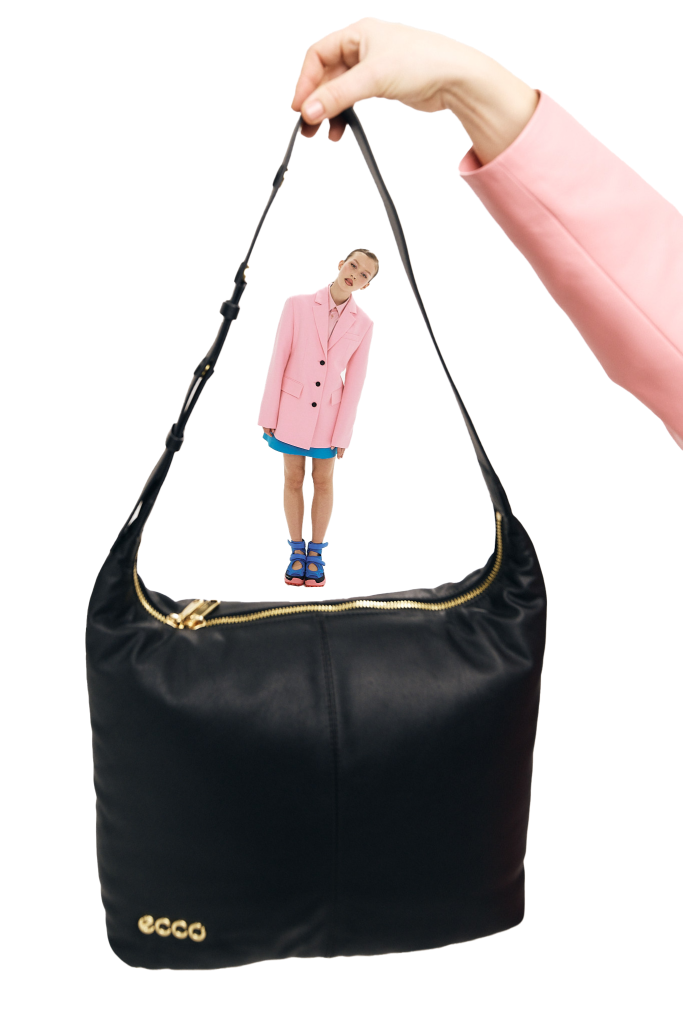
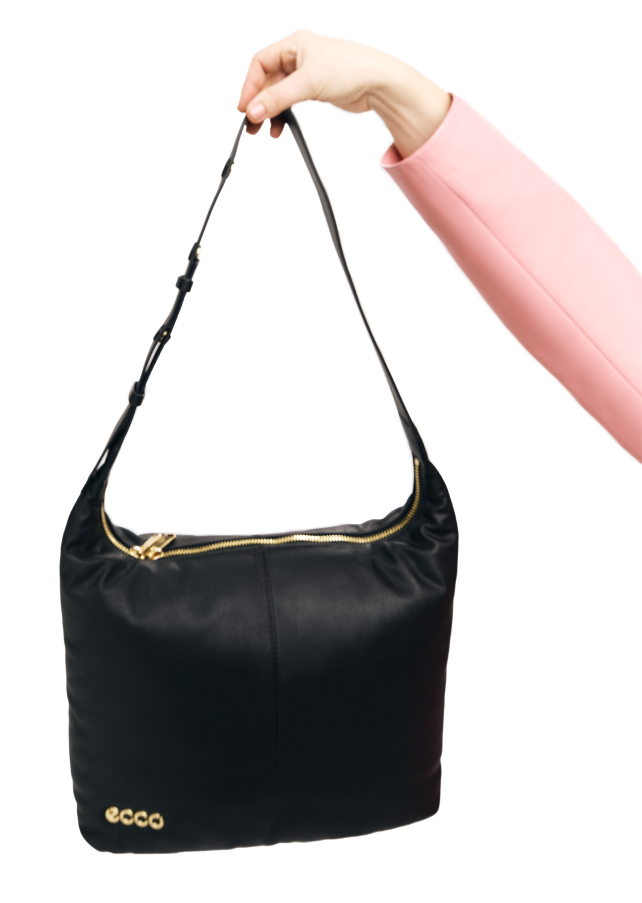
Add needed animation

diff --git a/src/components/unique/unique.scss b/src/components/unique/unique.scss
@@ -9,11 +9,11 @@
         }
 
         &__title-block {
-            margin-bottom: em(97, $basePxDp);
+            margin-bottom: em(44, $basePxDp);
             margin-left: em(123, $basePxDp);
 
             @media (--viewport-portrait-layout) {
-                margin-bottom: em(-15, $basePxMb);
+                margin-bottom: em(-9, $basePxMb);
                 margin-left: 0;
                 display: flex;
                 flex-direction: column;
@@ -112,14 +112,37 @@
                 position: relative;
             }
 
-            &--1 {
-                width: em(683, $basePxDp);
-                bottom: 0;
-                right: em(0, $basePxDp);
+            &.unique__img--1 {
+                --from-x: 100%;
+
+                width: em(642, $basePxDp);
+                bottom: em(137, $basePxDp);
+                right: em(-11, $basePxDp);
 
                 @media (--viewport-portrait-layout) {
-                    width: em(271, $basePxMb);
-                    margin-right: em(-27, $basePxMb);
+                    width: em(300, $basePxMb);
+                    margin-right: em(-45, $basePxMb);
+                    bottom: auto;
+                    right: auto;
+                }
+            }
+
+            &.unique__img--2 {
+                --from-scale: 0;
+
+                &.inview.from-transform.entered {
+                    transition-delay: 0.3s;
+                }
+
+                width: em(163, $basePxDp);
+                bottom: em(495, $basePxDp);
+                right: em(287, $basePxDp);
+
+                @media (--viewport-portrait-layout) {
+                    position: absolute;
+                    width: em(77, $basePxMb);
+                    bottom: em(175, $basePxMb);
+                    right: em(94, $basePxMb);
                 }
             }
 

diff --git a/src/js/addInviewByScroll.js b/src/js/addInviewByScroll.js
@@ -1,0 +1,27 @@
+import gsap from 'gsap';
+import ScrollTrigger from 'gsap/dist/ScrollTrigger';
+// import ScrollToPlugin from 'gsap/dist/ScrollToPlugin';
+
+gsap.registerPlugin(ScrollTrigger);
+
+const addInviewByScroll = () => {
+    Array.from(document.querySelectorAll('.inview')).forEach((trigger) => {
+        ScrollTrigger.create({
+            trigger,
+            start: 'top 90%',
+            end: 'bottom top',
+            onToggle: ({ isActive }) => {
+                if (isActive) trigger.classList.add('entered');
+            },
+            onUpdate: ({ progress }) => {
+                if (trigger.hasAttribute('parallax')) {
+                    trigger.style.setProperty('--parallax-progress', progress);
+                }
+            }
+        });
+    });
+};
+
+export default () => {
+    setTimeout(addInviewByScroll, 0);
+};

diff --git a/src/css/elements/inview.scss b/src/css/elements/inview.scss
@@ -1,0 +1,22 @@
+#tpl {
+    .inview {
+        &.from-transform {
+            &.entered {
+                transition: transform 0.5s cubic-bezier(0.03, 0.2, 0.33, 1);
+            }
+
+            &:not(.entered) {
+                transform: translateX((var(--from-x))) scale(var(--from-scale));
+            }
+        }
+
+        &.parallax {
+            transform:
+                rotate(calc(var(--parallax-progress) * 180deg * var(--k-progress-rotate) - 180deg * 0.5 * var(--k-progress-rotate)))
+                translate(
+                    calc(var(--parallax-progress) * 100% * var(--k-progress-x) - 50% * var(--k-progress-x)),
+                    calc(var(--parallax-progress) * 100% * var(--k-progress-y) - 50% * var(--k-progress-y))
+                );
+        }
+    }
+}

diff --git a/src/components/functionality/functionality.scss b/src/components/functionality/functionality.scss
@@ -70,6 +70,8 @@
             }
 
             &--2 {
+                --k-progress-x: -0.3;
+
                 width: em(629, $basePxDp);
 
                 @media (--viewport-portrait-layout) {
@@ -79,6 +81,8 @@
             }
 
             &--3 {
+                --k-progress-x: 0.2;
+
                 position: absolute;
                 width: em(1369, $basePxDp);
                 top: em(-509, $basePxDp);
@@ -92,6 +96,8 @@
             }
 
             &--4 {
+                --from-x: #{em(-1016, $basePxDp)};
+
                 width: em(492, $basePxDp);
 
                 @media (--viewport-portrait-layout) {

diff --git a/src/components/core/core.scss b/src/components/core/core.scss
@@ -91,6 +91,8 @@
                     position: absolute;
 
                     &--1 {
+                        --k-progress-x: 0.2;
+
                         width: em(612, $basePxDp);
                         bottom: em(-619, $basePxDp);
                         left: em(-232, $basePxDp);
@@ -103,6 +105,8 @@
                     }
 
                     &--2 {
+                        --k-progress-x: -0.4;
+
                         width: em(858, $basePxDp);
                         bottom: em(-803, $basePxDp);
                         left: em(49, $basePxDp);

diff --git a/src/components/newFemininity/newFemininity.scss b/src/components/newFemininity/newFemininity.scss
@@ -51,6 +51,9 @@
 
         &__img {
             &--2 {
+                --k-progress-rotate: 0.2;
+
+                transform: rotate(calc(var(--parallax-progress) * 180deg * var(--k-progress-rotate))) !important;
                 position: absolute;
                 top: em(-68, $basePxDp);
                 right: em(38.4, $basePxDp);
@@ -64,6 +67,8 @@
             }
 
             &--3 {
+                --from-x: #{em(-51 - 328, $basePxDp)};
+
                 width: em(643, $basePxDp);
 
                 @media (--viewport-portrait-layout) {

diff --git a/src/app.js b/src/app.js
@@ -1,5 +1,6 @@
 import './app.scss';
 import insertVideo from './js/insertVideo';
+import addInviewByScroll from './js/addInviewByScroll';
 
 import data from './data/basic.json';
 
@@ -9,7 +10,10 @@ function start() {
 
     const videoBlockId = 'video';
 
-    insertVideo(videoBlockId, data[3].link, data[3].poster, data[3].linkPt, data[3].posterPt);
+    window.addEventListener('load', () => {
+        insertVideo(videoBlockId, data[3].link, data[3].poster, data[3].linkPt, data[3].posterPt);
+        addInviewByScroll();
+    });
 }
 
 start();

diff --git a/src/components/homage/homage.scss b/src/components/homage/homage.scss
@@ -108,6 +108,8 @@
                 }
 
                 &__img {
+                    --from-x: #{em(651 + 117, $basePxDp)};
+
                     position: absolute;
                     width: em(592, $basePxDp);
                     bottom: em(-6, $basePxDp);
@@ -150,6 +152,8 @@
                     }
 
                     &--2 {
+                        --from-scale: 0;
+
                         width: em(273, $basePxDp);
                         bottom: em(113, $basePxDp);
                         left: em(312, $basePxDp);

diff --git a/src/components/header/header.scss b/src/components/header/header.scss
@@ -90,6 +90,8 @@
                 }
 
                 &--2 {
+                    --k-progress-y: 0.2;
+
                     bottom: em(-249, $basePxDp);
                     right: em(-57, $basePxDp);
                     width: em(945, $basePxDp);
@@ -100,6 +102,8 @@
                 }
 
                 &--3 {
+                    --from-x: #{em(302 + 58, $basePxDp)};
+
                     bottom: em(82, $basePxDp);
                     right: em(58, $basePxDp);
                     width: em(302, $basePxDp);

diff --git a/src/components/colorblock/colorblock.scss b/src/components/colorblock/colorblock.scss
@@ -157,6 +157,8 @@
             }
 
             &--2 {
+                --k-progress-x: 0.5;
+
                 width: em(365, $basePxDp);
                 top: em(-218 - 546, $basePxDp);
                 left: em(0, $basePxDp);
@@ -169,6 +171,8 @@
             }
 
             &--3 {
+                --k-progress-x: -0.2;
+
                 width: em(1113, $basePxDp);
                 bottom: em(32, $basePxDp);
                 left: em(-362, $basePxDp);

diff --git a/src/components/outdoor/outdoor.scss b/src/components/outdoor/outdoor.scss
@@ -21,6 +21,8 @@
             }
 
             &--1 {
+                --from-x: #{em(-853, $basePxDp)};
+
                 width: em(955, $basePxDp);
                 top: em(-122, $basePxDp);
                 left: em(-263, $basePxDp);

diff --git a/src/components/dichotomy/dichotomy.scss b/src/components/dichotomy/dichotomy.scss
@@ -102,6 +102,8 @@
             }
 
             &__img {
+                --k-progress-rotate: 0.1;
+
                 position: absolute;
                 width: em(1400, $basePxDp);
                 bottom: em(367, $basePxDp);
